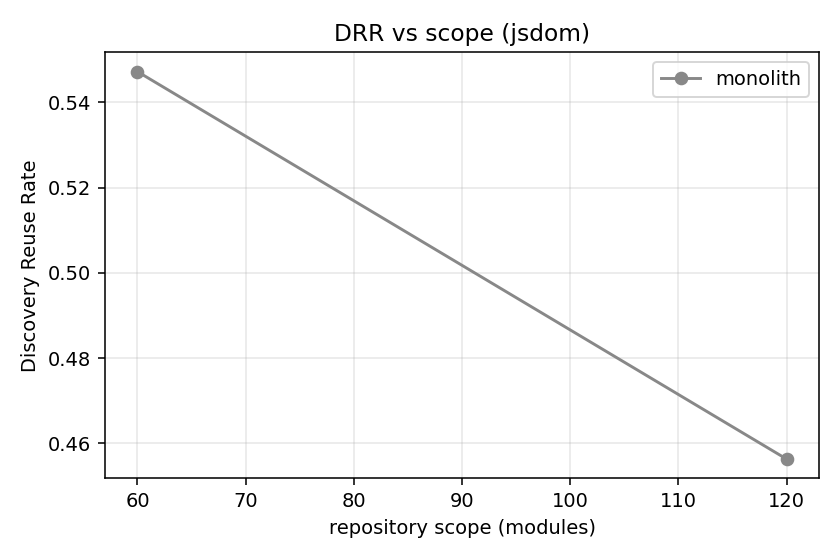
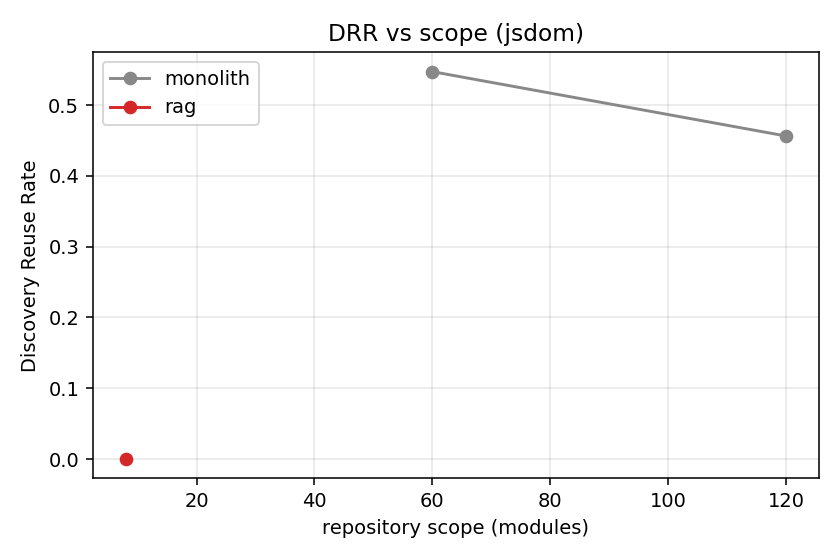
analyze: failure taxonomy (TS error codes) + read-time canonical dedup

diff --git a/harness/analyze.py b/harness/analyze.py
@@ -14,6 +14,7 @@ Writes:
 from __future__ import annotations
 
 import json
+import re
 import statistics as stats
 from collections import defaultdict
 from pathlib import Path
@@ -28,6 +29,20 @@ def _load(name: str) -> list[dict]:
     if not fp.exists():
         return []
     return [json.loads(l) for l in fp.read_text().splitlines() if l.strip()]
+
+
+def _dedup_canonical(recs: list[dict]) -> list[dict]:
+    """Tolerate legacy hand-curated records (no 'stratum') alongside reproducible
+    ingested records. Key on (display/target, scope_size, arm, seed); prefer the
+    ingested record (has 'stratum'). Read-only, so it never races a live batch
+    writing canonical.jsonl."""
+    best: dict[tuple, dict] = {}
+    for r in recs:
+        key = (r.get("display") or r.get("target"), r.get("scope_size"), r.get("arm"), r.get("seed", 0))
+        cur = best.get(key)
+        if cur is None or ("stratum" in r and "stratum" not in cur):
+            best[key] = r
+    return list(best.values())
 
 
 def _cell(rec: dict) -> str:
@@ -74,6 +89,49 @@ def drr_table(recs: list[dict]) -> str:
         dd, rr = d.get("durable"), d.get("rag")
         diff = round(dd - rr, 4) if isinstance(dd, (int, float)) and isinstance(rr, (int, float)) else "—"
         rows.append(f"| {disp} | {d.get('monolith','—')} | {d.get('durable','—')} | {d.get('rag','—')} | {diff} |")
+    return "\n".join(rows)
+
+
+TS_CODE = re.compile(r"TS(\d{3,5})")
+TS_MEANING = {
+    "2451": "cannot redeclare block-scoped variable (cross-file conflict)",
+    "2300": "duplicate identifier",
+    "2304": "cannot find name (missing/unreferenced type)",
+    "2305": "module has no exported member",
+    "2307": "cannot find module",
+    "2322": "type not assignable",
+    "2339": "property does not exist on type",
+    "2345": "argument type not assignable",
+    "7006": "parameter implicitly has 'any' type",
+    "7016": "could not find a declaration file for module",
+}
+
+
+def failure_taxonomy(recs: list[dict]) -> str:
+    fails = [r for r in recs if not r.get("oracle_ok")]
+    if not fails:
+        return "_no failures recorded_"
+    rows = ["| trial | arm | failed gates | TS error codes (top) |", "| --- | --- | --- | --- |"]
+    code_tally: dict[str, int] = defaultdict(int)
+    by_arm_codes: dict[str, dict[str, int]] = defaultdict(lambda: defaultdict(int))
+    for r in fails:
+        codes: dict[str, int] = defaultdict(int)
+        for g in r.get("failed_gate_detail", []):
+            for c in TS_CODE.findall(g.get("tail", "") or ""):
+                codes[c] += 1
+                code_tally[c] += 1
+                by_arm_codes[r["arm"]][c] += 1
+        top = ", ".join(f"TS{c}×{n}" for c, n in sorted(codes.items(), key=lambda kv: -kv[1])[:4]) or "—"
+        disp = r.get("display", r.get("trial", "?"))
+        rows.append(f"| {disp} | {r['arm']} | {','.join(r.get('failed_gates') or [])} | {top} |")
+    rows.append("")
+    rows.append("**Aggregate TS error codes across failures:**")
+    rows.append("")
+    rows.append("| code | meaning | count | arms |")
+    rows.append("| --- | --- | --- | --- |")
+    for c, n in sorted(code_tally.items(), key=lambda kv: -kv[1]):
+        arms = ",".join(sorted(a for a in by_arm_codes if by_arm_codes[a].get(c)))
+        rows.append(f"| TS{c} | {TS_MEANING.get(c, '?')} | {n} | {arms} |")
     return "\n".join(rows)
 
 
@@ -156,7 +214,7 @@ def figures(recs: list[dict], rrecs: list[dict]) -> list[str]:
 
 
 def main() -> int:
-    recs = _load("canonical.jsonl")
+    recs = _dedup_canonical(_load("canonical.jsonl"))
     rrecs = _load("resume_exp.jsonl")
     frecs = _load("followup_exp.jsonl")
     md = [
@@ -165,6 +223,7 @@ def main() -> int:
         "## Outcome (hardened oracle)\n", outcome_table(recs), "",
         "## Single-context scaling (breaking-point search)\n", scaling_table(recs), "",
         "## Discovery Reuse Rate\n", drr_table(recs), "",
+        "## Failure taxonomy (mechanism)\n", failure_taxonomy(recs), "",
         "## Resumability (H4): work surviving an interruption\n", resumability_table(rrecs), "",
         "## Follow-up / extension (re-derivation cost)\n", followup_table(frecs), "",
     ]

diff --git a/harness/rescore.py b/harness/rescore.py
@@ -42,7 +42,8 @@ def rescore(trial_dir: Path, sub: str, profile: dict) -> dict:
         "DRR": drr["rate"],
         "drr_detail": {k: drr[k] for k in ("numerator", "denominator", "by_depth")},
         "failed_gates": [
-            {"name": g["name"], "tail": (g.get("stdout_tail") or g.get("stderr_tail") or "")[-160:],
+            {"name": g["name"],
+             "tail": ((g.get("stdout_tail") or "") + "\n" + (g.get("stderr_tail") or ""))[-2000:],
              "residual_js": g.get("residual_js"), "missing_ts": g.get("missing_ts")}
             for g in verdict.get("gates", []) if not g.get("passed")
         ],

diff --git a/results/tables.md b/results/tables.md
@@ -7,9 +7,10 @@ _n canonical records: 8; resumability runs: 0; follow-up runs: 0_
 | scope | n | monolith | durable | stateless-RAG |
 | --- | --- | --- | --- | --- |
 | express | 7 | PASS h=0 DRR=0.75 | PASS h=0 DRR=0.75 | PASS h=0 DRR=0.25 |
+| jsdom-S | 8 | — | — | FAIL h=0 DRR=0.0 (typecheck_strict,conversion_complete) |
 | jsdom-L | 60 | PASS h=0 DRR=0.5472 | — | — |
 | jsdom-XL | 120 | PASS h=0 DRR=0.4563 | — | — |
-| jsdom-S | 8 | PASS h=0 DRR=0.1667 | PASS h=0 DRR=0.0 | FAIL h=0 DRR=0.0 (typecheck_strict,conversion_complete) |
+| jsdom-S | 8 | PASS h=0 DRR=0.1667 | PASS h=0 DRR=0.0 | — |
 
 ## Single-context scaling (breaking-point search)
 
@@ -25,9 +26,25 @@ _n canonical records: 8; resumability runs: 0; follow-up runs: 0_
 | scope | monolith | durable | stateless-RAG | durable−RAG |
 | --- | --- | --- | --- | --- |
 | express | 0.75 | 0.75 | 0.25 | 0.5 |
+| jsdom-S | — | — | 0.0 | — |
 | jsdom-L | 0.5472 | — | — | — |
 | jsdom-XL | 0.4563 | — | — | — |
-| jsdom-S | 0.1667 | 0.0 | 0.0 | 0.0 |
+| jsdom-S | 0.1667 | 0.0 | — | — |
+
+## Failure taxonomy (mechanism)
+
+| trial | arm | failed gates | TS error codes (top) |
+| --- | --- | --- | --- |
+| jsdom-S | rag | typecheck_strict,conversion_complete | TS2451×7, TS2345×2, TS2717×1, TS2430×1 |
+
+**Aggregate TS error codes across failures:**
+
+| code | meaning | count | arms |
+| --- | --- | --- | --- |
+| TS2451 | cannot redeclare block-scoped variable (cross-file conflict) | 7 | rag |
+| TS2345 | argument type not assignable | 2 | rag |
+| TS2717 | ? | 1 | rag |
+| TS2430 | ? | 1 | rag |
 
 ## Resumability (H4): work surviving an interruption
 